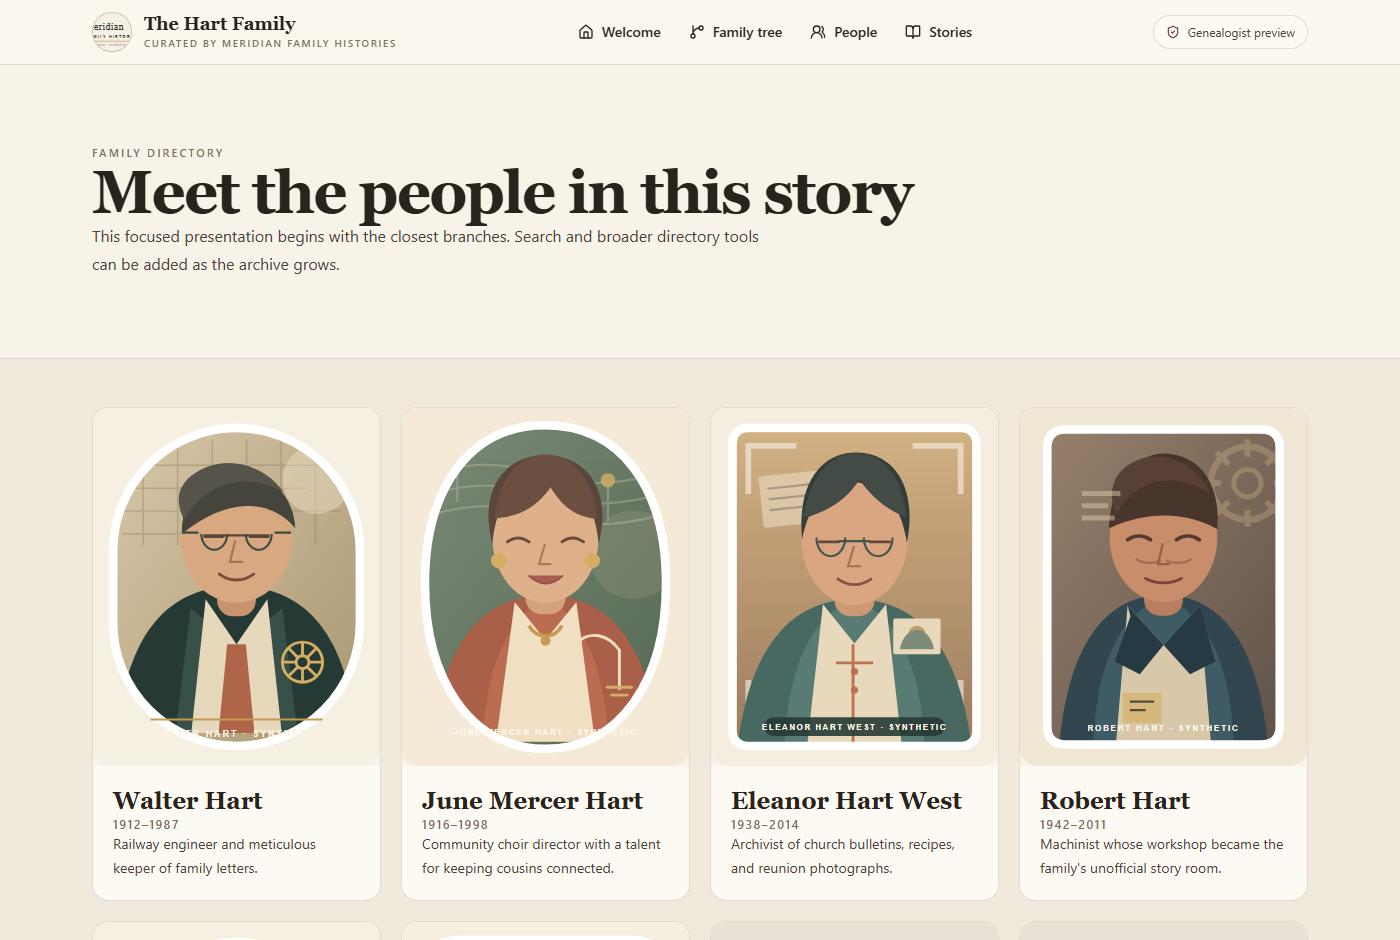
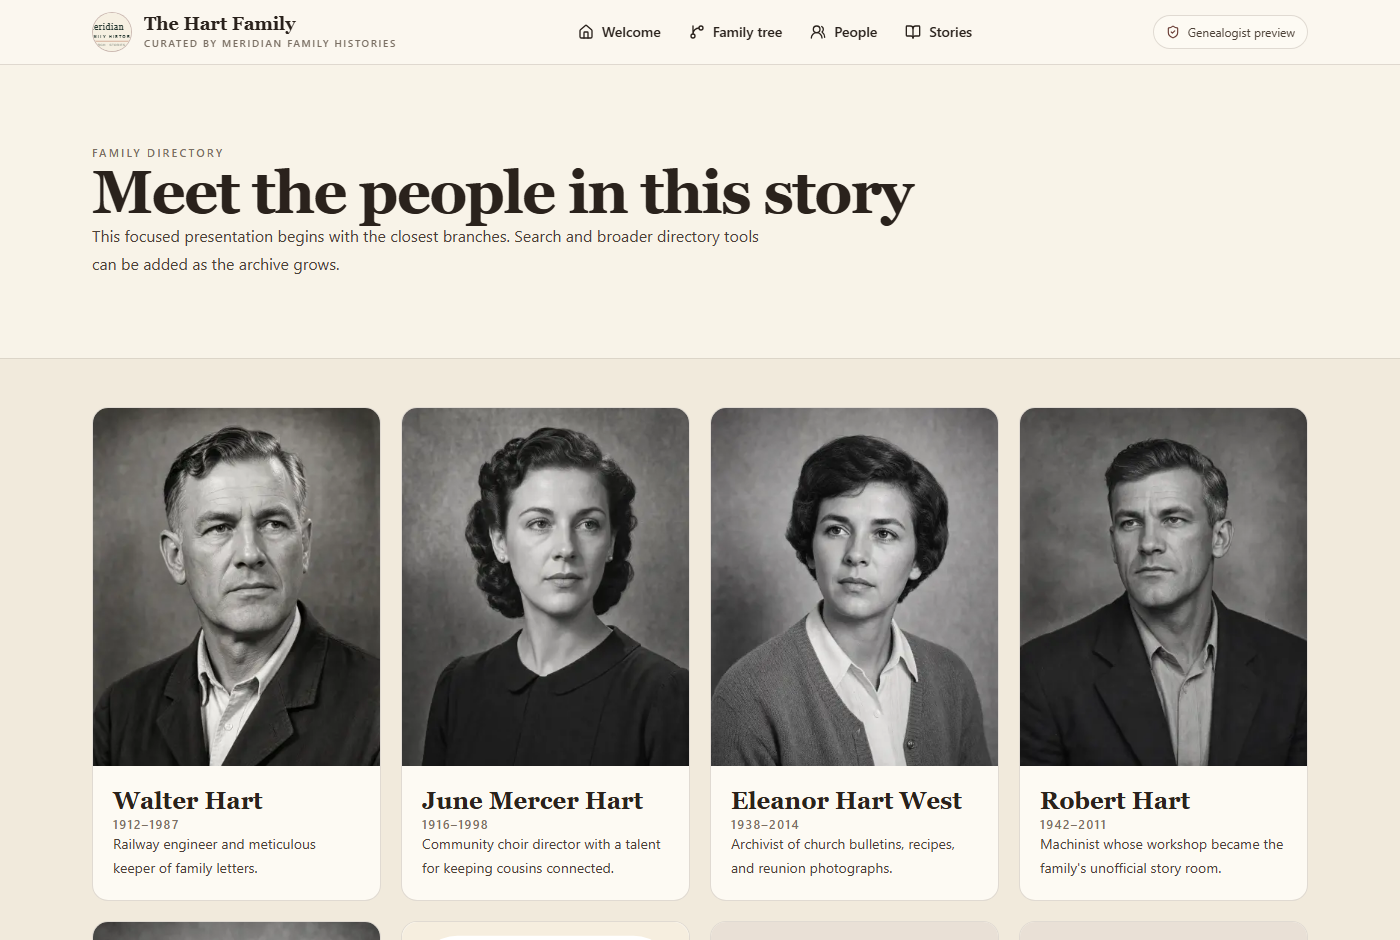
feat: give the demonstration family real period portraits
The placeholder portraits were flat vector drawings with the word
SYNTHETIC set into the artwork. That watermark was right inside the app
but reached the marketing pages, and the illustration style undercut the
positioning of every surface around it.

Five generated black-and-white studio portraits replace them, of people
who never existed. They are deliberately not uniform: Walter and June are
framed as 1948 portraits, Samuel as 1965, Robert as 1972, because a real
family archive accumulates photographs across decades rather than
commissioning them in one sitting. Each woman was derived from the man
nearest her in time so the periods stay internally consistent.

The declaration of what these images are moves from the artwork into the
words around it — every portrait's media record still states it is
synthetic demonstration artwork, and the marketing pages label the
archive as a sample. Margaret West Vale is recorded as living and stays
hidden, so she keeps the original placeholder.

Marketing screenshots regenerated against the new portraits.

Changed region(s): [[0.0614, 0.4319, 0.9521, 0.833], [0.0614, 0.9564, 0.2764, 1.0]]

diff --git a/lib/pilot/demo.ts b/lib/pilot/demo.ts
@@ -236,22 +236,25 @@ const hartProject: PilotProject = {
       quarantineFailureReason: null,
       uploadedAt: "2026-06-04T09:40:00.000Z",
     },
+    // Portraits are generated period photographs of people who never existed;
+    // see docs/design/ancestor-portrait-prompts.md. Margaret is recorded as
+    // living, so she is hidden from the presentation and keeps the placeholder.
     ...[
-      ["walter", "Walter Hart", "p01", "portrait-walter-hart.svg"],
-      ["june", "June Mercer Hart", "p02", "portrait-june-mercer-hart.svg"],
-      ["eleanor", "Eleanor Hart West", "p03", "portrait-eleanor-hart-west.svg"],
-      ["robert", "Robert Hart", "p04", "portrait-robert-hart.svg"],
-      ["samuel", "Samuel West", "p05", "portrait-samuel-west.svg"],
+      ["walter", "Walter Hart", "p01", "portraits/walter.webp"],
+      ["june", "June Mercer Hart", "p02", "portraits/june.webp"],
+      ["eleanor", "Eleanor Hart West", "p03", "portraits/eleanor.webp"],
+      ["robert", "Robert Hart", "p04", "portraits/robert.webp"],
+      ["samuel", "Samuel West", "p05", "portraits/samuel.webp"],
       ["margaret", "Margaret West Vale", "p06", "portrait-margaret-west-vale.svg"],
     ].map(([key, name, personId, path], index) => ({
       id: `media-portrait-${key}`,
       projectId: "pilot-hart-001",
       kind: "image" as const,
-      fileName: `${key}-portrait.jpg`,
-      mimeType: "image/jpeg" as const,
+      fileName: `${key}-portrait.webp`,
+      mimeType: "image/webp" as const,
       byteSize: 4_200_000 + index * 90_000,
       sha256: String(index + 1).repeat(64),
-      originalStoragePath: `private/pilot-hart-001/originals/${key}-portrait.jpg`,
+      originalStoragePath: `private/pilot-hart-001/originals/${key}-portrait.webp`,
       derivativePath: `/demo/pilot/${path}`,
       inertPreviewPath: null,
       caption: `${name}, synthetic demonstration portrait.`,

diff --git a/public/demo/pilot/README.md b/public/demo/pilot/README.md
@@ -4,16 +4,32 @@ Every asset in this directory is **clearly synthetic** and was created specifica
 
 The SVGs are code-native, contain no scripts or external resources, and are safe to serve as static demo artwork. Each file also includes a synthetic-data notice in its `<title>`, `<desc>`, and `<metadata>` elements.
 
-## Suggested person mapping
+## Portraits
+
+The ancestor portraits in `portraits/` are generated photographs of people who
+never existed, produced from the prompt pack in
+[`docs/design/ancestor-portrait-prompts.md`](../../../docs/design/ancestor-portrait-prompts.md).
+They carry no visible watermark: the earlier placeholders had the word SYNTHETIC
+drawn into the artwork, which also reached the marketing pages. The declaration
+now lives in the words around the images instead — each portrait's stored media
+record states that it is synthetic demonstration artwork, and the marketing pages
+label the archive as a sample.
+
+They are deliberately not uniform. Walter and June are framed as 1948 studio
+portraits, Samuel as 1965 and Robert as 1972, because a real family archive
+accumulates photographs across decades rather than commissioning them all at once.
 
 | Demo person | File | Existing demo ID |
 | --- | --- | --- |
-| Walter Hart | `portrait-walter-hart.svg` | `p01` |
-| June Mercer Hart | `portrait-june-mercer-hart.svg` | `p02` |
-| Eleanor Hart West | `portrait-eleanor-hart-west.svg` | `p03` |
-| Robert Hart | `portrait-robert-hart.svg` | `p04` |
-| Samuel West | `portrait-samuel-west.svg` | `p05` |
+| Walter Hart | `portraits/walter.webp` | `p01` |
+| June Mercer Hart | `portraits/june.webp` | `p02` |
+| Eleanor Hart West | `portraits/eleanor.webp` | `p03` |
+| Robert Hart | `portraits/robert.webp` | `p04` |
+| Samuel West | `portraits/samuel.webp` | `p05` |
 | Margaret West Vale | `portrait-margaret-west-vale.svg` | `p06` |
+
+Margaret is recorded as living, so she is hidden from the presentation and keeps
+the original placeholder.
 
 ## Suggested presentation mapping
 

diff --git a/docs/design/ancestor-portrait-prompts.md b/docs/design/ancestor-portrait-prompts.md
@@ -1,5 +1,11 @@
 # Ancestor portraits for the Hart demonstration archive
 
+> **Status: done.** These five portraits were generated and are live in
+> `public/demo/pilot/portraits/`. Keep this file as the recipe — regenerate from
+> it if a portrait needs replacing, or adapt it when adding a demonstration
+> family. The assignment notes at the end record which era each sitter was
+> framed as, which is what keeps the set coherent.
+
 The demonstration family currently uses flat vector placeholders with the word
 SYNTHETIC drawn into the artwork. That watermark is right for the app — it stops
 placeholder art being mistaken for a real ancestor — but it appears on the
@@ -116,6 +122,25 @@ Portrait orientation, at least 900 pixels wide and 1200 tall. Larger is fine.
 
 Then say so, and the demonstration archive will be pointed at them and the
 marketing screenshots regenerated.
+
+## What was actually generated
+
+The four men came back as one batch of options rather than a derived chain, so
+they are not one studio. Rather than force uniformity, each was assigned to the
+decade its look suited — which is closer to how a real archive accumulates
+photographs anyway.
+
+| Sitter | Framed as | Source |
+| --- | --- | --- |
+| Walter Hart | 1948 — flattest, grainiest, plain wall | hero option B |
+| June Mercer Hart | 1948 — derived from Walter's portrait | derived |
+| Samuel West | 1965 — period but cleaner | hero option D |
+| Eleanor Hart West | 1968 — derived from Samuel's portrait | derived |
+| Robert Hart | 1972 — sharpest, most modern light | hero option A |
+
+The two women were each derived from the man closest to them in time, which is
+what keeps the 1948 pair and the 1965–72 group reading as consistent within
+themselves.
 
 ## Two notes
 
